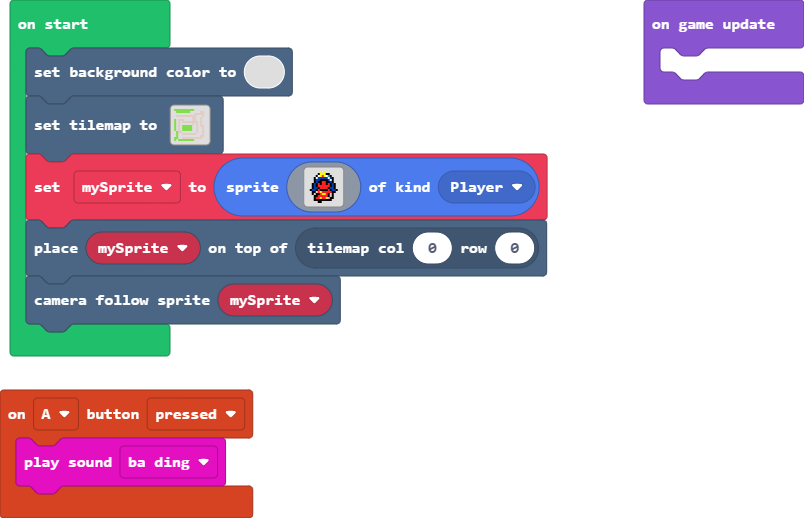
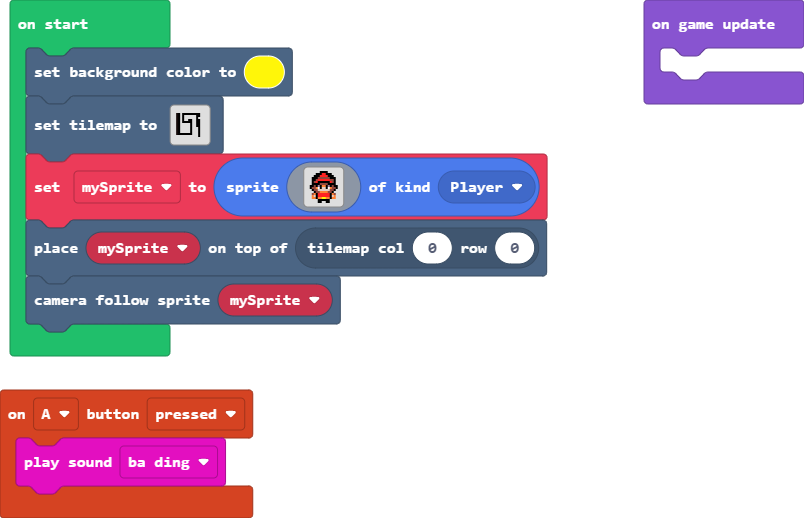
Update main.blocks, main.ts, tilemap.g.jres, tilemap.g.ts

Changed region(s): [[0.2799, 0.0927, 0.3731, 0.1853], [0.3731, 0.3398, 0.4353, 0.4015], [0.2177, 0.1853, 0.2488, 0.278]]

diff --git a/tilemap.g.ts b/tilemap.g.ts
@@ -43,6 +43,25 @@ namespace myTiles {
 . . . . . . . . . . . . . . . . 
 . . . . . . . . . . . . . . . . 
 `, [myTiles.transparency16,sprites.castle.tilePath5,sprites.castle.tileGrass3], TileScale.Sixteen);
+            case "level4":
+            case "level4":return tiles.createTilemap(hex`1000100000000000000000000000000000000000000000000000000000000000000000000000000000000000000000000000000000000000000000000000000000000000000000000000000000000000000000000000000000000000000000000000000000000000000000000000000000000000000000000000000000000000000000000000000000000000000000000000000000000000000000000000000000000000000000000000000000000000000000000000000000000000000000000000000000000000000000000000000000000000000000000000000000000000000000000000000000000000000000000000000000000000000000000000000000000000`, img`
+. . . . . . . . . . . . . . . . 
+. . . . . . . . . . . . . . . . 
+. . . . . . . . . . . . . . . . 
+. . . . . . . . . . . . . . . . 
+. . . . . . . . . . . . . . . . 
+. . . . . . . . . . . . . . . . 
+. . . . . . . . . . . . . . . . 
+. . . . . . . . . . . . . . . . 
+. . . . . . . . . . . . . . . . 
+. . . . . . . . . . . . . . . . 
+. . . . . . . . . . . . . . . . 
+. . . . . . . . . . . . . . . . 
+. . . . . . . . . . . . . . . . 
+. . . . . . . . . . . . . . . . 
+. . . . . . . . . . . . . . . . 
+. . . . . . . . . . . . . . . . 
+`, [myTiles.transparency16], TileScale.Sixteen);
             case "level1":
             case "level1":return tiles.createTilemap(hex`1000100000000000000000000000000000000000000000000000000000000000000000000002010001010101010101010100000000020100010000000000000101000000000201000100000000000001000000000002010001000001010000010100000000020100010101010100000101000000000201000000000001000001010000000002010000000000010000010100000000020100000000000100000001000000000201000000000001000000010000000002010000000000010000000100000000030101010101010100000001000000000000000000000000000000010000000000000000000000000000000000000000000000000000000000000000000000`, img`
 . . . . . . . . . . . . . . . . 

diff --git a/main.ts b/main.ts
@@ -1,9 +1,9 @@
 controller.A.onEvent(ControllerButtonEvent.Pressed, function () {
     music.baDing.play()
 })
-scene.setBackgroundColor(0)
-tiles.setTilemap(tilemap`level3`)
-let mySprite = sprites.create(assets.image`princessFront2`, SpriteKind.Player)
+scene.setBackgroundColor(5)
+tiles.setTilemap(tilemap`level1`)
+let mySprite = sprites.create(assets.image`heroWalkFront1`, SpriteKind.Player)
 tiles.placeOnTile(mySprite, tiles.getTileLocation(0, 0))
 scene.cameraFollowSprite(mySprite)
 game.onUpdate(function () {
